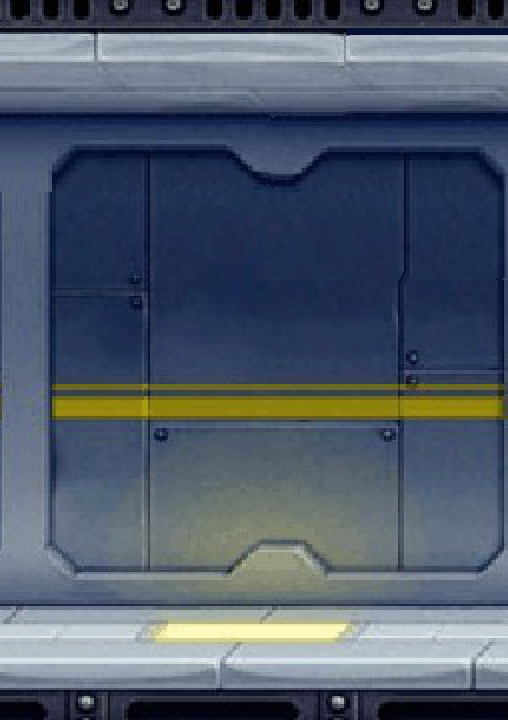
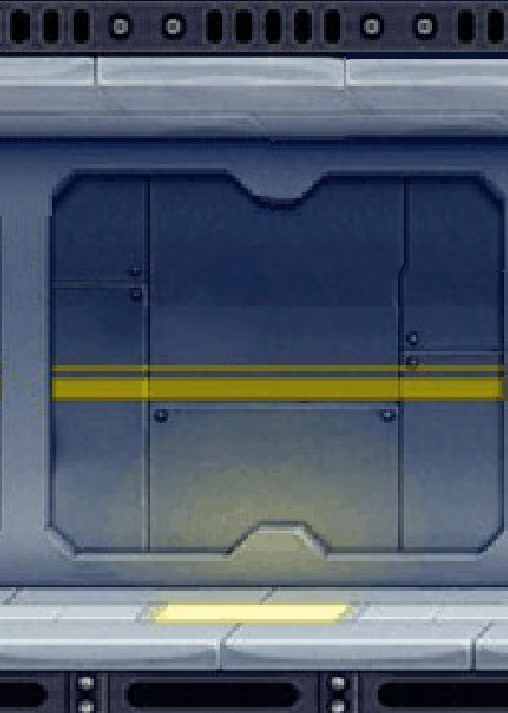
Death Mechanic Almost Done Need to Adjust Image Positioning when changing

diff --git a/JetpackJoyride/Form1.cs b/JetpackJoyride/Form1.cs
@@ -28,6 +28,7 @@ namespace JetpackJoyride
         bool ground = true;
         bool alive = true;
         bool deadbounce = false;
+        bool deadslide=false;
         #endregion
         #region Integers/Doubles
         int bgMove = 4;
@@ -55,9 +56,9 @@ namespace JetpackJoyride
         {
             this.SetStyle(ControlStyles.DoubleBuffer, true);
             this.SetStyle(ControlStyles.OptimizedDoubleBuffer, true);
-            bg1.Location = new Point(956, -28);
-            bg2.Location = new Point(1460, -28);
-            bg3.Location = new Point(1964, -28);
+            bg1.Location = new Point(956, -12);
+            bg2.Location = new Point(1460, -12);
+            bg3.Location = new Point(1964, -12);
             pbBarry.Location = new Point(-80,pbBarry.Location.Y);
             z_animate = rnd.Next(0, 19);
             ZapperAnimation();
@@ -81,7 +82,7 @@ namespace JetpackJoyride
             zap1.BackColor = Color.Transparent;
             zap1.Image = Properties.Resources.zapper;
             zap1.BackgroundImage=null;
-            zap1.SizeMode = PictureBoxSizeMode.CenterImage;
+            zap1.SizeMode = PictureBoxSizeMode.AutoSize;
             this.Controls.Add(zap1);
             zap1.Location = new Point(1173, zapperY1);
             zap1.BringToFront();
@@ -94,7 +95,7 @@ namespace JetpackJoyride
             zap2.BackColor = Color.Transparent;
             zap2.Image = Properties.Resources.zapper;
             zap2.BackgroundImage = null;            
-            zap2.SizeMode = PictureBoxSizeMode.CenterImage;
+            zap2.SizeMode = PictureBoxSizeMode.AutoSize;
             this.Controls.Add(zap2);
             zap2.Location = new Point(1681, zapperY2);
             zap2.BringToFront();
@@ -107,7 +108,7 @@ namespace JetpackJoyride
             zap3.BackColor = Color.Transparent;
             zap3.Image = Properties.Resources.zapper;
             zap3.BackgroundImage = null;        
-            zap3.SizeMode = PictureBoxSizeMode.CenterImage;
+            zap3.SizeMode = PictureBoxSizeMode.AutoSize;
             this.Controls.Add(zap3);
             zap3.Location = new Point(2189, zapperY3);
             zap3.BringToFront();
@@ -136,7 +137,10 @@ namespace JetpackJoyride
                     }
                 }
             }
-            Death();
+            if(alive==false)
+            {
+                Death();
+            }
             //TransparentBG();
         }
         #region Background
@@ -145,7 +149,7 @@ namespace JetpackJoyride
             //Hallway Background Reset
             for (int i = 0; i < bgList.Count; i++)
             {
-                if (bgList[i].Location.X <= -504) { bgList[i].Location = new Point(1008, -28); }
+                if (bgList[i].Location.X <= -504) { bgList[i].Location = new Point(1008, -12); }
                 bgList[i].Left -= bgMove;
             }
         }
@@ -171,26 +175,26 @@ namespace JetpackJoyride
             {
                 pbBarry.Image = Properties.Resources.slowing_rise;
                 slowfly++;
-                if (pbBarry.Location.Y > 70)
+                if (pbBarry.Location.Y > 107)
                 { pbBarry.Top -= fly/4; }
-                else if (pbBarry.Location.Y <= 70)
-                { pbBarry.Location = new Point(pbBarry.Location.X, 70); }
+                else if (pbBarry.Location.Y <= 107)
+                { pbBarry.Location = new Point(pbBarry.Location.X, 107); }
             }
             else if (slowfly >=9 && slowfly<18)
             {
                 slowfly++;
                 pbBarry.Image = Properties.Resources.rising;
-                if (pbBarry.Location.Y > 70)
+                if (pbBarry.Location.Y > 107)
                 { pbBarry.Top -= fly/2; }
-                else if (pbBarry.Location.Y <= 70)
-                { pbBarry.Location = new Point(pbBarry.Location.X, 70); }
+                else if (pbBarry.Location.Y <= 107)
+                { pbBarry.Location = new Point(pbBarry.Location.X, 107); }
             }
             else if(slowfly>=18)
             {
-                if (pbBarry.Location.Y > 70)
+                if (pbBarry.Location.Y > 107)
                 { pbBarry.Top -= fly; }
-                else if (pbBarry.Location.Y <= 70)
-                { pbBarry.Location = new Point(pbBarry.Location.X, 70); }
+                else if (pbBarry.Location.Y <= 107)
+                { pbBarry.Location = new Point(pbBarry.Location.X, 107); }
             }
         }
         private void Gravity()
@@ -202,7 +206,7 @@ namespace JetpackJoyride
                 if (pbBarry.Location.Y < 548)
                 { 
                     pbBarry.Top += fly/4;
-                    pbBarry.Image = Properties.Resources.falling;
+                    if (alive) { pbBarry.Image = Properties.Resources.falling; }               
                 }
                 else if (pbBarry.Location.Y >= 548)
                 { 
@@ -226,53 +230,88 @@ namespace JetpackJoyride
             }
         }
         #endregion
-        private void Death()
-        {   if(alive)
+        private void ZapperCollision()
+        {
+            if (alive)
             {
-                for(int i= 0; i < ZapList.Count; i++)
+                for (int i = 0; i < ZapList.Count; i++)
                 {
-                    alive = false;
+                    if (pbBarry.Bounds.IntersectsWith(ZapList[i].Bounds))
+                    {
+                        pbBarry.Image = Properties.Resources.hitzap;
+                        alive = false;
+                        //For Testing Zapper Collision
+                        /*ZapList[i].BackColor= Color.White;
+                        tmrAnimate.Enabled = false;
+                        tmrUpdate.Enabled = false;*/
+                    }
                 }
             }
-        else if(alive==false)
+        }
+        private void Death()
         {
-                if(ground == false && deadbounce == false)
+            if (pbBarry.Location.Y >= 548&&deadslide)
+            {
+                deadslide = true;
+                pbBarry.Image = Properties.Resources.slide;
+            }
+            if (ground == false && deadbounce == false && deadslide == false)
+            {
+                Gravity();
+            }
+            else if (ground && deadbounce)
+            {
+                pbBarry.Image = Properties.Resources.slide;
+                bounce++;
+                if (bounce < 15)
                 {
-                    Gravity();                    
+                    pbBarry.Top -= fly / 2;
                 }
-                else if(ground && deadbounce)
+                else if (bounce >= 15 && bounce < 30)
                 {
-                    bounce++;
-                    if(bounce < 10)
-                    {
-                        pbBarry.Top -= fly/2;
-                    }
-                    else if(bounce >= 10 && bounce<20)
-                    {
-                        pbBarry.Top -= fly / 4;
-                    }
-                    else if (bounce >= 20 && bounce < 30)
-                    {
-                        pbBarry.Top += fly / 4;
-                    }
-                    else if (bounce >= 30 && pbBarry.Location.Y<548)
-                    {
-                        pbBarry.Top += fly / 2;
-                    }
-                    if(pbBarry.Location.Y>=548)
-                    {
-                        slide++;
-                        if (bounce < 10)
-                        {
-                            bgMove /= 2;
-                            pbBarry.Image = Properties.Resources.slide;
-                        }
-                        else if (bounce >= 10 && bounce < 20)
-                        {
-                            bgMove /= 2;
-                        }
-                        
-                    }
+                    pbBarry.Top -= fly / 4;
+                }
+                else if (bounce >= 30 && bounce < 45)
+                {
+                    pbBarry.Top += fly / 4;
+                }
+                else if (bounce >= 45 && pbBarry.Location.Y < 548)
+                {
+                    pbBarry.Top += fly / 2;
+                }
+                if (pbBarry.Location.Y >= 548 && deadslide == false)
+                {
+                    deadslide = true;
+                    deadbounce = false;
+                }
+
+            }
+            if (deadslide)
+            {
+                if (pbBarry.Location.Y < 580)
+                {
+                    pbBarry.Top += 4;
+
+                }
+                slide++;
+                if (slide < 10)
+                {
+                    tmrScore.Interval = 375;
+                    bgMove = 2;
+
+                }
+                else if (slide >= 10 && slide < 20)
+                {
+                    tmrScore.Interval = 500;
+                    bgMove = 1;
+                }
+                else if (slide >= 20)
+                {
+                    pbBarry.Image = Properties.Resources.death;
+                    bgMove = 0;
+                    tmrAnimate.Enabled = false;
+                    tmrScore.Enabled = false;
+                    tmrUpdate.Enabled = false;
                 }
             }
         }
@@ -322,19 +361,19 @@ namespace JetpackJoyride
         {        
             if (bg1.Location.X<=-504)
             {
-                zapperY1 = rnd.Next(88, 338);              
+                zapperY1 = rnd.Next(125, 338);              
                 zap1.Location = new Point(1225, zapperY1);
                 zap1.Parent = bg1;
             }
             else if (bg2.Location.X <= -504)
             {
-                zapperY2 = rnd.Next(88, 338);               
+                zapperY2 = rnd.Next(125, 338);               
                 zap2.Location = new Point(1225, zapperY2);
                 zap2.Parent = bg2;
             }
             else if (bg3.Location.X <= -504)
             {
-                zapperY3 = rnd.Next(88, 338);                
+                zapperY3 = rnd.Next(125, 338);                
                 zap3.Location = new Point(1225, zapperY3);
                 zap3.Parent = bg3;
             }
@@ -415,6 +454,7 @@ namespace JetpackJoyride
                 BackgroundReset();
                 ResetZappers();
                 ZapperMovement();
+                ZapperCollision();
             }      
             if(pbBarry.Location.X>260 && go==false && start)
             {

diff --git a/JetpackJoyride/AboutBox1.Designer.cs b/JetpackJoyride/AboutBox1.Designer.cs
@@ -29,13 +29,13 @@
         {
             System.ComponentModel.ComponentResourceManager resources = new System.ComponentModel.ComponentResourceManager(typeof(AboutBox1));
             this.tableLayoutPanel = new System.Windows.Forms.TableLayoutPanel();
+            this.logoPictureBox = new System.Windows.Forms.PictureBox();
             this.labelProductName = new System.Windows.Forms.Label();
             this.labelVersion = new System.Windows.Forms.Label();
             this.labelCopyright = new System.Windows.Forms.Label();
             this.labelCompanyName = new System.Windows.Forms.Label();
             this.textBoxDescription = new System.Windows.Forms.TextBox();
             this.okButton = new System.Windows.Forms.Button();
-            this.logoPictureBox = new System.Windows.Forms.PictureBox();
             this.tableLayoutPanel.SuspendLayout();
             ((System.ComponentModel.ISupportInitialize)(this.logoPictureBox)).BeginInit();
             this.SuspendLayout();
@@ -64,6 +64,19 @@
             this.tableLayoutPanel.RowStyles.Add(new System.Windows.Forms.RowStyle(System.Windows.Forms.SizeType.Percent, 10F));
             this.tableLayoutPanel.Size = new System.Drawing.Size(417, 265);
             this.tableLayoutPanel.TabIndex = 0;
+            // 
+            // logoPictureBox
+            // 
+            this.logoPictureBox.BackColor = System.Drawing.Color.FromArgb(((int)(((byte)(117)))), ((int)(((byte)(223)))), ((int)(((byte)(238)))));
+            this.logoPictureBox.Dock = System.Windows.Forms.DockStyle.Fill;
+            this.logoPictureBox.Image = ((System.Drawing.Image)(resources.GetObject("logoPictureBox.Image")));
+            this.logoPictureBox.Location = new System.Drawing.Point(3, 3);
+            this.logoPictureBox.Name = "logoPictureBox";
+            this.tableLayoutPanel.SetRowSpan(this.logoPictureBox, 6);
+            this.logoPictureBox.Size = new System.Drawing.Size(131, 259);
+            this.logoPictureBox.SizeMode = System.Windows.Forms.PictureBoxSizeMode.Zoom;
+            this.logoPictureBox.TabIndex = 12;
+            this.logoPictureBox.TabStop = false;
             // 
             // labelProductName
             // 
@@ -137,19 +150,6 @@
             this.okButton.Size = new System.Drawing.Size(75, 23);
             this.okButton.TabIndex = 24;
             this.okButton.Text = "&OK";
-            // 
-            // logoPictureBox
-            // 
-            this.logoPictureBox.BackColor = System.Drawing.Color.FromArgb(((int)(((byte)(117)))), ((int)(((byte)(223)))), ((int)(((byte)(238)))));
-            this.logoPictureBox.Dock = System.Windows.Forms.DockStyle.Fill;
-            this.logoPictureBox.Image = ((System.Drawing.Image)(resources.GetObject("logoPictureBox.Image")));
-            this.logoPictureBox.Location = new System.Drawing.Point(3, 3);
-            this.logoPictureBox.Name = "logoPictureBox";
-            this.tableLayoutPanel.SetRowSpan(this.logoPictureBox, 6);
-            this.logoPictureBox.Size = new System.Drawing.Size(131, 259);
-            this.logoPictureBox.SizeMode = System.Windows.Forms.PictureBoxSizeMode.Zoom;
-            this.logoPictureBox.TabIndex = 12;
-            this.logoPictureBox.TabStop = false;
             // 
             // AboutBox1
             // 

diff --git a/JetpackJoyride/Form1.Designer.cs b/JetpackJoyride/Form1.Designer.cs
@@ -163,9 +163,9 @@
             // bg3
             // 
             this.bg3.Image = global::JetpackJoyride.Properties.Resources.background;
-            this.bg3.Location = new System.Drawing.Point(929, 0);
+            this.bg3.Location = new System.Drawing.Point(929, -12);
             this.bg3.Name = "bg3";
-            this.bg3.Size = new System.Drawing.Size(508, 720);
+            this.bg3.Size = new System.Drawing.Size(508, 713);
             this.bg3.SizeMode = System.Windows.Forms.PictureBoxSizeMode.AutoSize;
             this.bg3.TabIndex = 2;
             this.bg3.TabStop = false;
@@ -175,7 +175,7 @@
             this.bg2.Image = global::JetpackJoyride.Properties.Resources.background;
             this.bg2.Location = new System.Drawing.Point(506, 0);
             this.bg2.Name = "bg2";
-            this.bg2.Size = new System.Drawing.Size(508, 720);
+            this.bg2.Size = new System.Drawing.Size(508, 713);
             this.bg2.SizeMode = System.Windows.Forms.PictureBoxSizeMode.AutoSize;
             this.bg2.TabIndex = 1;
             this.bg2.TabStop = false;
@@ -185,7 +185,7 @@
             this.bg1.Image = global::JetpackJoyride.Properties.Resources.background;
             this.bg1.Location = new System.Drawing.Point(0, 0);
             this.bg1.Name = "bg1";
-            this.bg1.Size = new System.Drawing.Size(508, 720);
+            this.bg1.Size = new System.Drawing.Size(508, 713);
             this.bg1.SizeMode = System.Windows.Forms.PictureBoxSizeMode.AutoSize;
             this.bg1.TabIndex = 0;
             this.bg1.TabStop = false;
